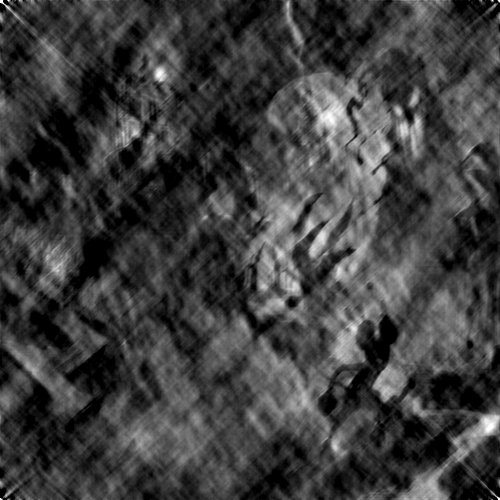
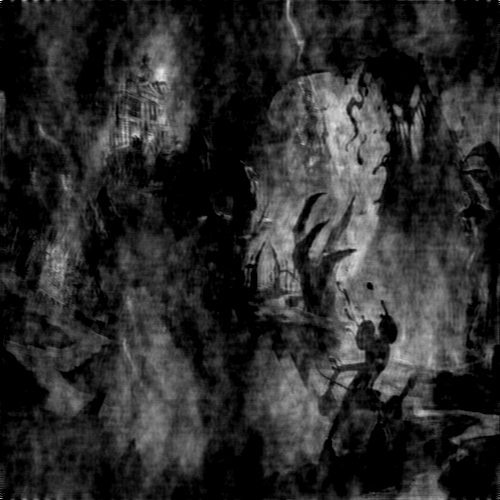
project is done :wink:

diff --git a/DSP_task4_1-front/static/script/main.js b/DSP_task4_1-front/static/script/main.js
@@ -11,8 +11,7 @@ const SecondTools = document.getElementsByName("SecondImageTools");
 const img1cont = document.getElementById("img1cont");
 const img2cont = document.getElementById("img2cont");
 
-const checkBox1 = document.getElementById("checkbox1");
-const checkBox2 = document.getElementById("checkbox2");
+const checkBox = document.getElementById("checkbox");
 
 const image1Path = "../static/images/image1.png";
 const image1MagPath = "../static/images/image1_mag.png?";
@@ -24,7 +23,7 @@ const image2PhasePath = "../static/images/image2_phase.png?";
 
 const imageMixed = "../static/images/image_mix.png?";
 
-let cropDimensions = [[0, 0, 0, 0], [0, 0, 0, 0], [0, 0], [0, 0]];
+let cropDimensions = [[0, 0, 0, 0], [0, 0, 0, 0], [0, 0], [0]];
 
 FirstImageInput.addEventListener("change", function () {
   let reader = new FileReader();
@@ -56,11 +55,11 @@ SecondImageInput.addEventListener("change", function () {
   reader.onload = e => {
     if (e.target.result) {
       setTimeout(() => {
-        SecondTools[0].checked = true;
+        SecondTools[1].checked = true;
         SecondImage.src = e.target.result;
         let img = document.createElement("img");
         img.id = "image";
-        img.src = image2MagPath + new Date().getTime();
+        img.src = image2PhasePath + new Date().getTime();
         img2cont.innerHTML = "";
         img2cont.appendChild(img);
         cropper2 = new Cropper(img, {
@@ -77,17 +76,10 @@ SecondImageInput.addEventListener("change", function () {
   LoadImage(this.files[0], 2);
 });
 
-checkBox1.addEventListener("change", function () {
-  cropDimensions[3][0] = this.checked ? 1 : 0;
-  loadDimensions();
-
-})
-
-checkBox2.addEventListener("change", function () {
-  cropDimensions[3][1] = this.checked ? 1 : 0;
+checkBox.addEventListener("change", function () {
+  cropDimensions[3] = this.checked ? 1 : 0;
   loadDimensions();
 })
-
 
 for (radio in FirstTools) {
   FirstTools[radio].onclick = function () {

diff --git a/DSP_task4_1-front/templates/index.html b/DSP_task4_1-front/templates/index.html
@@ -49,8 +49,8 @@
       <label for="Magnitude">Magnitude</label><br>
       <input type="radio" id="Phase" name="FirstImageTools" value="Phase">
       <label for="Phase">Phase</label>
-      <input type="checkbox" id="checkbox1" name="outin1">
-      <label for="checkbox1">Outside/Inside</label>
+      <input type="checkbox" id="checkbox" name="outin">
+      <label for="checkbox">Outside/Inside</label>
 
     </div>
     <!-- ------------------------ The Second Image Magnitude/Phase ------------------- -->
@@ -60,12 +60,10 @@
     </div>
     <!-- ------------------------ The Magnitude/Phase tools ----------------------- -->
     <div style="display: flex;">
-      <input type="radio" id="MagnitudeBtn" name="SecondImageTools" value="Magnitude" checked>
+      <input type="radio" id="MagnitudeBtn" name="SecondImageTools" value="Magnitude">
       <label for="MagnitudeBtn">Magnitude</label><br>
-      <input type="radio" id="PhaseBtn" name="SecondImageTools" value="Phase">
+      <input type="radio" id="PhaseBtn" name="SecondImageTools" value="Phase" checked>
       <label for="PhaseBtn">Phase</label>
-      <input type="checkbox" id="checkbox2" name="outin2">
-      <label for="checkbox2">Outside/Inside</label>
     </div>
 
   </div>

diff --git a/DSP_task4_1-front/images.py b/DSP_task4_1-front/images.py
@@ -1,0 +1,189 @@
+import pandas as pd
+import numpy as np
+import cv2
+import matplotlib.pylab as plt
+
+class Image:
+    def __init__(self,image=None, path= None):
+
+        self.image = image
+        self.image_path = path
+        if path is not None:
+            self.read()
+
+    def resize(self, height=500, width=500):
+    
+        self.image = cv2.resize( self.image, (height, width))
+        
+
+    def getFourier(self):
+        fourier = np.fft.fft2(self.image)
+        fourier = np.fft.fftshift(fourier)
+        return fourier
+        
+    def gray_scale(self):
+        # truning colored image to gray
+        self.image=cv2.cvtColor(self.image, cv2.COLOR_RGB2GRAY)
+
+
+    def save(self ,save_path):
+        # saving image to given path
+        cv2.imwrite(save_path, self.image)
+
+    def read(self):
+        #reading the image
+        self.image = cv2.imread(self.image_path)
+        
+    def saveMagnitudePhaseImages(self, index=0):
+    
+        self.read()
+        self.gray_scale()
+        self.resize()
+
+        magnitude1 ,phase1=self.MagnitudePhaseImages()
+
+
+        magnitude1= Image(image=magnitude1)
+        magnitude1.save(f"DSP_task4_1-front\static\images\image{index}_mag.png")
+
+        phase1= Image(image=phase1)
+        phase1.save(f"DSP_task4_1-front\static\images\image{index}_phase.png")
+
+    def MagnitudePhaseImages(self):
+        dft = cv2.dft(np.float32(self.image),flags = cv2.DFT_COMPLEX_OUTPUT)
+        dft_shift = np.fft.fftshift(dft)
+
+        magnitude_spectrum = 20*np.log(cv2.magnitude(dft_shift[:,:,0],dft_shift[:,:,1]))
+        mag, ang = cv2.cartToPolar(dft_shift[:,:,0],dft_shift[:,:,1])
+        return magnitude_spectrum ,ang
+    
+
+
+class ImageProcessing:
+    
+    def __init__(self,choices, cropping_indecies,checkBoxesValue):
+        self.choices = choices
+        self.cropping_indecies = cropping_indecies
+        self.checkBoxValue = checkBoxesValue
+    
+    def read_images(self):
+
+        image_file1="DSP_task4_1-front\static\images\image1.png"
+        image_file2="DSP_task4_1-front\static\images\image2.png"
+
+        # creating objects
+
+        image1 =Image(path=image_file1)
+        image2 =Image(path=image_file2)
+
+        image1.gray_scale()
+        image2.gray_scale()
+
+        image1.resize()
+        image2.resize()
+
+        return image1,image2
+
+
+    def ProcessImages(self):
+        
+        image1,image2=self.read_images()
+
+        f=image1.getFourier()
+        f2=image2.getFourier()
+            
+        if (self.choices[0]==0 and self.choices[1]==1 ):
+            #-------------------choice1 mag choice2 phase--------------------- 
+            # combined_img1 = np.multiply(np.abs(f), np.exp(1j*np.angle(f2)))
+            f, f2 =self.cropping_fourier(np.abs(f),  np.exp(1j*np.angle(f2)))
+            combined_img1 = np.multiply(f, f2)
+
+
+        elif (self.choices[0]==1 and self.choices[1]==0 ):
+            #-------------------choice1 phase choice2 mag----------------------
+            # combined_img1 = np.multiply(np.abs(f2), np.exp(1j*np.angle(f)))
+            f, f2 = self.cropping_fourier(np.exp(1j*np.angle(f)), np.abs(f2))
+            combined_img1 = np.multiply(f, f2)
+
+
+        imgCombined = np.real(np.fft.ifft2(np.fft.fftshift(combined_img1 )))
+        img= Image(image=imgCombined)
+        img.save("DSP_task4_1-front\static\images\image_mix.png")
+
+        return imgCombined
+
+    def cropping_fourier(self, Fourier_img1, Fourier_img2):
+
+        choice_img1=self.choices[0]
+        choice_img2=self.choices[1]
+
+        F1_2d = Fourier_img1
+        F2_2d = Fourier_img2
+
+        #  indecies extraction and manipulation
+
+        left1    =self.cropping_indecies[0][0]
+        top1     =int(self.cropping_indecies[0][1]*500/300)
+        width1   =self.cropping_indecies[0][2]
+        height1  =int(self.cropping_indecies[0][3]*500/300)
+        left2    =self.cropping_indecies[1][0]
+        top2     =int(self.cropping_indecies[1][1]*500/300)
+        width2   =self.cropping_indecies[1][2]
+        height2  =int(self.cropping_indecies[1][3]*500/300)
+
+        # using indecies to show inside and outside part
+
+        inside_part1 = F1_2d[top1:top1+height1, left1:left1+width1]
+        outside_part1 = F1_2d
+        inside_part2 = F2_2d[top2:top2+height2, left2:left2+width2]
+        outside_part2 = F2_2d
+        
+        if(self.checkBoxValue == 0):
+
+            chosen_part1 = inside_part1
+            chosen_part2 = inside_part2
+
+            if(choice_img1 == 1):
+                rejected_part1 = outside_part1*0
+                rejected_part1 = np.exp(1j*rejected_part1)
+            elif (choice_img1 == 0):
+                rejected_part1 = np.ones((500, 500))
+
+            if(choice_img2 == 1):
+                rejected_part2 = outside_part2*0
+                rejected_part2 = np.exp(1j*rejected_part2)
+
+            elif (choice_img2 == 0):
+                rejected_part2 = np.ones((500, 500))
+
+            result1 = rejected_part1.copy()
+            result2 = rejected_part2.copy()
+
+            result1[top1:top1+height1, left1:left1+width1] = chosen_part1
+            result2[top2:top2+height2, left2:left2+width2] = chosen_part2
+            
+        elif (self.checkBoxValue == 1):
+            chosen_part1 = outside_part1
+            chosen_part2 = outside_part2    
+
+            if(choice_img1 == 1):
+                rejected_part1 = inside_part1*0
+                rejected_part1 = np.exp(1j*rejected_part1)
+
+            elif (choice_img1 == 0):
+                rejected_part1 = np.ones((height1, width1))
+
+            if(choice_img2 == 1):
+                rejected_part2 = inside_part2*0
+                rejected_part2 = np.exp(1j*rejected_part2)
+            elif (choice_img2 == 0):
+                rejected_part2 = np.ones((height2, width2))
+
+            result1 = chosen_part1.copy()
+            result2 = chosen_part2.copy()
+
+            result1[top1:top1+height1, left1:left1+width1] = rejected_part1
+            result2[top2:top2+height2, left2:left2+width2] = rejected_part2
+
+        return result1, result2
+

diff --git a/DSP_task4_1-front/app.py b/DSP_task4_1-front/app.py
@@ -4,17 +4,23 @@ import numpy as np
 import matplotlib.pyplot as plt
 from numpy.fft import ifft2, fft2, fftshift
 import cmath
-import new_functions as fn 
-import PIL.Image as Image
+import images as fn
+from images import Image
+import PIL.Image as ImageSave
 import io
 
+image1Path = "DSP_task4_1-front/static/images/image1.png"
+image1MagPath = "DSP_task4_1-front/static/images/image1_mag.png"
+image1PhasePath = "DSP_task4_1-front/static/images/image1_phase.png"
+image2Path = "DSP_task4_1-front/static/images/image2.png"
+image2MagPath = "DSP_task4_1-front/static/images/image2_mag.png"
+image2PhasePath = "DSP_task4_1-front/static/images/image2_phase.png"
 
 app = Flask(__name__, template_folder="templates")
 
 @app.route('/', methods=['GET'])
 def home():
     return render_template('index.html')
-
 
 @app.route("/dimensions", methods = ["GET","POST"])
 def dimensions():
@@ -23,39 +29,31 @@ def dimensions():
     dimensionNum = [eval(i) for i in dimensionsStr]
     dimensions = [dimensionNum[:4],dimensionNum[4:8]]
     choices = dimensionNum[8:10]
-    checkBoxes = dimensionNum[10:]
-
-    photo1=cv2.imread(fn.image1Path)
-    photo2=cv2.imread(fn.image2Path)
-
-    img1_gray = cv2.cvtColor(photo1,cv2.COLOR_BGR2GRAY)
-    img2_gray = cv2.cvtColor(photo2, cv2.COLOR_BGR2GRAY)
-    img1,img2 = fn.resize_images(img1_gray,img2_gray)
-
-    imgCombined = fn.mixCroppedImages(img1,img2,choices,dimensions,checkBoxes)
-    cv2.imwrite("DSP_task4_1-front/static/images/image_mix.png",imgCombined)
-    return "Mix sent"
+    checkBoxes = dimensionNum[-1]
+    imageProcess = fn.ImageProcessing(choices,dimensions,checkBoxes)
+    imageMixed = imageProcess.ProcessImages()
+    cv2.imwrite("DSP_task4_1-front/static/images/image_mix.png",imageMixed)
+    return "Image Mixed Processed"
 
 @app.route("/image1", methods = ["GET", "POST"])
 def uploadImage1():
     if(request.method == "POST"):
         file = request.data
-        img = Image.open(io.BytesIO(file))
-        img.save(fn.image1Path)
-        fn.saveMagnitudePhaseImages(fn.image1Path,1)
-        fn.saveMixedImage()
+        img = ImageSave.open(io.BytesIO(file))
+        img.save(image1Path)
+        photo1 = Image(image1Path)
+        photo1.saveMagnitudePhaseImages(1)
     return "image 1 processed"
 
 @app.route("/image2", methods = ["GET", "POST"])
 def uploadImage2():
     if(request.method == "POST"):
         file = request.data
-        img = Image.open(io.BytesIO(file))
-        img.save(fn.image2Path)
-        fn.saveMagnitudePhaseImages(fn.image2Path,2)
-        fn.saveMixedImage()
+        img = ImageSave.open(io.BytesIO(file))
+        img.save(image2Path)
+        photo2 = Image(image2Path)
+        photo2.saveMagnitudePhaseImages(2)
     return "image 2 processed"
-
 
 if __name__ == '__main__':
     app.run(debug=True , port=10000)

diff --git a/DSP_task4_1-front/new_functions.py b/DSP_task4_1-front/new_functions.py
@@ -36,7 +36,6 @@ def cropping_fourier (Fouri_img1,choice_img1,Fouri_img2,choice_img2,cropping_ind
     inside_part2  =F2_2d[top2:top2+height2, left2:left2+width2]
     outside_part2 =F2_2d    
 
-
     if(checkBoxesValue == [0,0]):
         chosen_part1 = inside_part1
         chosen_part2 = inside_part2    
@@ -98,10 +97,10 @@ def mixCroppedImages(img1,img2,choices,dim,checkBoxesValue):
         combined_img1 = np.multiply(f, f2)
         
     elif (choices[0]==0 and choices[1]==1 ):
-             
-        f, f2 =cropping_fourier(np.abs(f), 0, np.exp(1j*np.angle(f2)), 1, dim,checkBoxesValue)
+       f, f2 =cropping_fourier(np.abs(f), 0, np.exp(1j*np.angle(f2)), 1, dim,checkBoxesValue)
         combined_img1 = np.multiply(f, f2)
-
+          
+    
 
     elif (choices[0]==1 and choices[1]==0 ):
         f, f2 = cropping_fourier(
